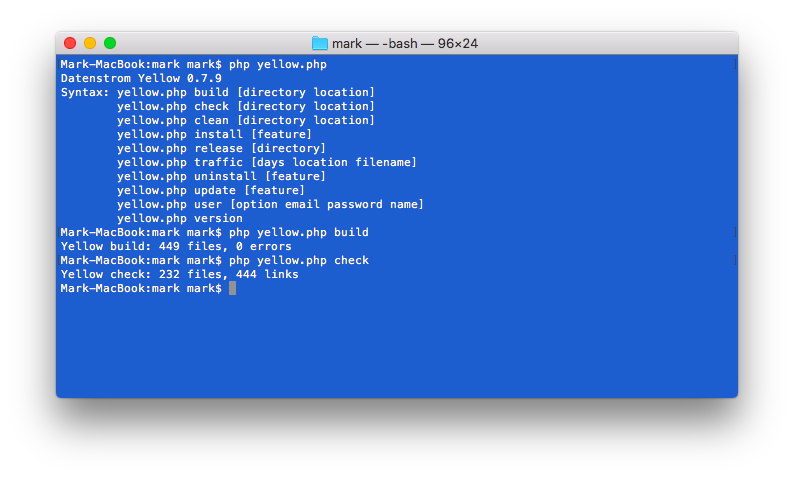
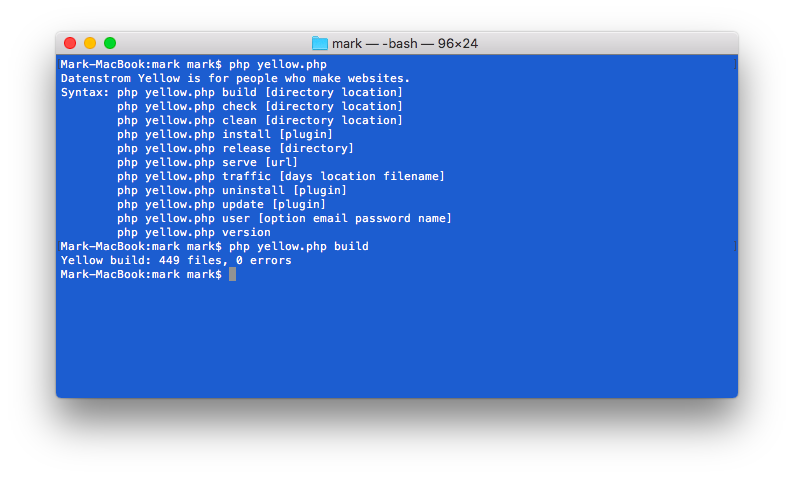
added serve command to static site generator

Changed region(s): [[0.0605, 0.1464, 0.5743, 0.6151]]

diff --git a/command/command.php b/command/command.php
@@ -4,7 +4,7 @@
 // This file may be used and distributed under the terms of the public license.
 
 class YellowCommand {
-    const VERSION = "0.7.13";
+    const VERSION = "0.7.14";
     public $yellow;                     //access to API
     public $files;                      //number of files
     public $links;                      //number of links
@@ -25,6 +25,7 @@ class YellowCommand {
             case "build":   $statusCode = $this->processCommandBuild($args); break;
             case "check":   $statusCode = $this->processCommandCheck($args); break;
             case "clean":   $statusCode = $this->processCommandClean($args); break;
+            case "serve":   $statusCode = $this->processCommandServe($args); break;
             case "version": $statusCode = $this->processCommandVersion($args); break;
             default:        $statusCode = 0;
         }
@@ -36,16 +37,17 @@ class YellowCommand {
         $help .= "build [directory location]\n";
         $help .= "check [directory location]\n";
         $help .= "clean [directory location]\n";
+        $help .= "serve [url]\n";
         $help .= "version\n";
         return $help;
     }
     
     // Process command to show available commands
     public function processCommandHelp() {
-        echo "Datenstrom Yellow ".YellowCore::VERSION."\n";
+        echo "Datenstrom Yellow is for people who make websites.\n";
         $lineCounter = 0;
         foreach ($this->getCommandHelp() as $line) {
-            echo(++$lineCounter>1 ? "        " : "Syntax: ")."yellow.php $line\n";
+            echo(++$lineCounter>1 ? "        " : "Syntax: ")."php yellow.php $line\n";
         }
         return 200;
     }
@@ -424,6 +426,24 @@ class YellowCommand {
                 $statusCode = $value["obj"]->onCommand(func_get_args());
                 if ($statusCode!=0) break;
             }
+        }
+        return $statusCode;
+    }
+
+    // Process command to start built-in web server
+    public function processCommandServe($args) {
+        list($command, $url) = $args;
+        if (empty($url)) $url = "http://localhost:8000";
+        list($scheme, $address, $base) = $this->yellow->lookup->getUrlInformation($url);
+        if ($scheme=="http" && !empty($address)) {
+            if (!preg_match("/\:\d+$/", $address)) $address .= ":8000";
+            echo "Starting built-in web server on $scheme://$address\n";
+            echo "Press Ctrl-C to quit...\n";
+            system("php -S $address yellow.php", $returnStatus);
+            $statusCode = $returnStatus!=0 ? 500 : 200;
+        } else {
+            $statusCode = 400;
+            echo "Yellow $command: Invalid arguments\n";
         }
         return $statusCode;
     }

diff --git a/command/README.md b/command/README.md
@@ -1,4 +1,4 @@
-Command plugin 0.7.13
+Command plugin 0.7.14
 =====================
 Run commands in a terminal window.
 
@@ -12,48 +12,27 @@ Run commands in a terminal window.
 
 To uninstall delete the [plugin files](update.ini).
 
-## How to use the command line
+## How to use commands
 
-Datenstrom Yellow offers commands that you run from within the installation folder. Open a terminal window. Go to your installation folder, where the `yellow.php` is. Type `php yellow.php` followed by more arguments. You can create a static website and do much more from the command line. See example below.
+You can run commands from within the installation folder. Open a terminal window. Go to your installation folder, where the `yellow.php` is. Type `php yellow.php` followed by more arguments. To show available commands enter no arguments. You can create a static website and do much more from the command line. See commands below.
 
 The plugin uses the [cURL library](https://github.com/curl/curl) by Daniel Stenberg to check links.
 
-## How to run commands
+## Commands
 
 The following commands are available:
 
-**php yellow.php**  
-Show available commands
-
-**php yellow.php build [directory location]**  
-Build [static website](https://developers.datenstrom.se/help/server-configuration#static-website)
-
-**php yellow.php check [directory location]**  
-Check static files for broken links
-
-**php yellow.php clean [directory location]**  
-Clean static files
-
-**yellow.php install [feature]**  
-Add website features with the [update plugin](https://github.com/datenstrom/yellow-plugins/tree/master/update)
-
-**php yellow.php release [directory]**  
-Create software releases with the [release plugin](https://github.com/datenstrom/yellow-plugins/tree/master/release)
-
-**php yellow.php traffic [days location filename]**  
-Create traffic analytics with the [traffic plugin](https://github.com/datenstrom/yellow-plugins/tree/master/traffic)
-
-**yellow.php uninstall [feature]**  
-Remove website features with the [update plugin](https://github.com/datenstrom/yellow-plugins/tree/master/update)
-
-**php yellow.php update [feature]**  
-Update website with the [update plugin](https://github.com/datenstrom/yellow-plugins/tree/master/update)
-
-**php yellow.php user [option email password name]**  
-Update user account with the [edit plugin](https://github.com/datenstrom/yellow-plugins/tree/master/edit)
-
-**php yellow.php version**  
-Show software version and updates
+`php yellow.php build` = Build [static website](https://developers.datenstrom.se/help/server-configuration#static-website)  
+`php yellow.php check` = Check [static website](https://developers.datenstrom.se/help/server-configuration#static-website) for broken links  
+`php yellow.php clean` = Clean [static website](https://developers.datenstrom.se/help/server-configuration#static-website)  
+`php yellow.php install` = Add features with the [update plugin](https://github.com/datenstrom/yellow-plugins/tree/master/update)  
+`php yellow.php release` = Create software releases with the [release plugin](https://github.com/datenstrom/yellow-plugins/tree/master/release)  
+`php yellow.php serve` = Start built-in web server for testing the website  
+`php yellow.php traffic` = Create traffic analytics with the [traffic plugin](https://github.com/datenstrom/yellow-plugins/tree/master/traffic)  
+`php yellow.php uninstall` = Remove features with the [update plugin](https://github.com/datenstrom/yellow-plugins/tree/master/update)  
+`php yellow.php update` = Update website with the [update plugin](https://github.com/datenstrom/yellow-plugins/tree/master/update)  
+`php yellow.php user` = Update user account with the [edit plugin](https://github.com/datenstrom/yellow-plugins/tree/master/edit)  
+`php yellow.php version` = Show software version and updates  
 
 ## Example
 
@@ -62,17 +41,18 @@ Showing available commands:
 `php yellow.php`
 
 ~~~~
-Datenstrom Yellow 0.7.9
-Syntax: yellow.php build [directory location]
-        yellow.php check [directory location]
-        yellow.php clean [directory location]
-        yellow.php install [feature]
-        yellow.php release [directory]
-        yellow.php traffic [days location filename]
-        yellow.php uninstall [feature]
-        yellow.php update [feature]
-        yellow.php user [option email password name]
-        yellow.php version
+Datenstrom Yellow is for people who make websites.
+Syntax: php yellow.php build [directory location]
+        php yellow.php check [directory location]
+        php yellow.php clean [directory location]
+        php yellow.php install [feature]
+        php yellow.php release [directory]
+        php yellow.php serve [url]
+        php yellow.php traffic [days location filename]
+        php yellow.php uninstall [feature]
+        php yellow.php update [feature]
+        php yellow.php user [option email password name]
+        php yellow.php version
 ~~~~
 
 ## Developer
